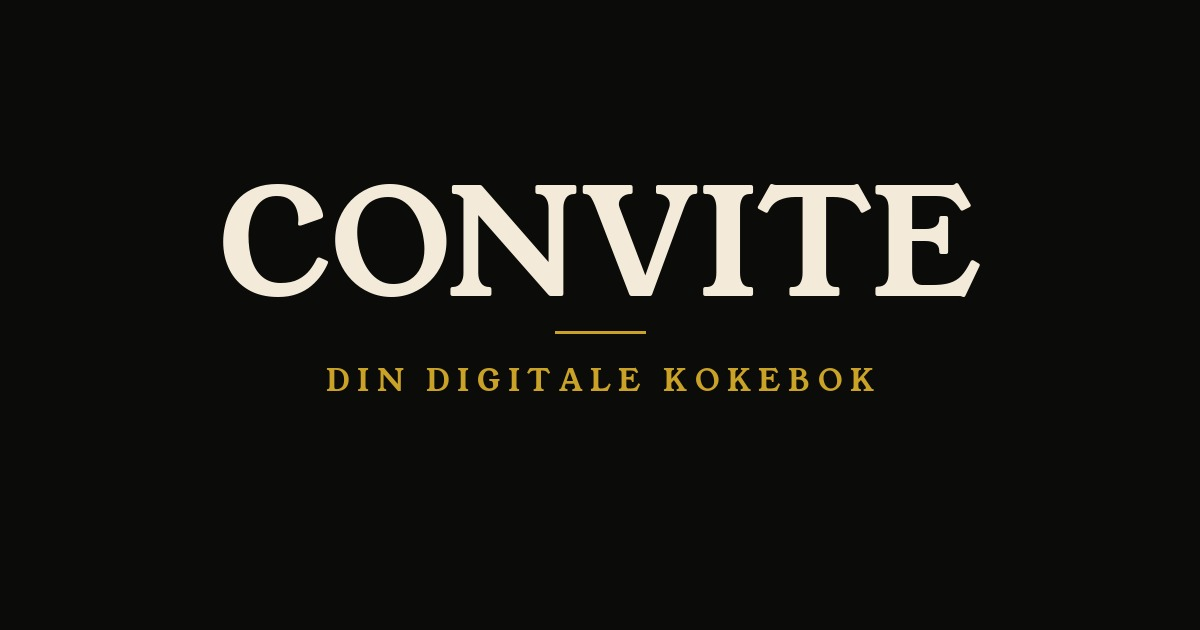
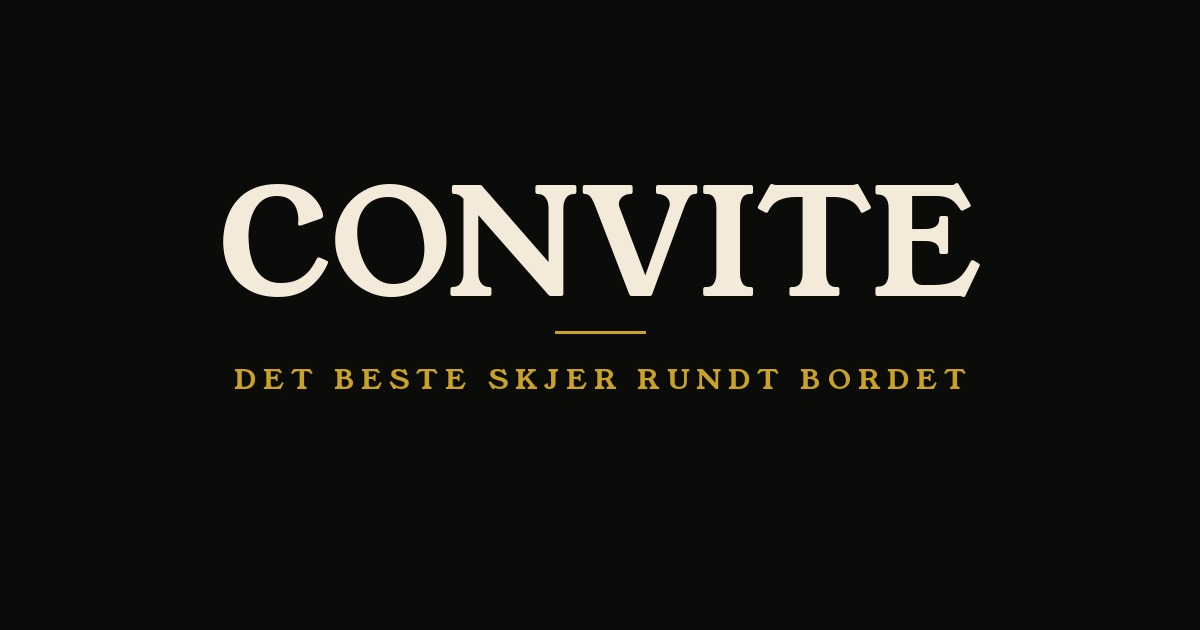
Bruk 'Det beste skjer rundt bordet' overalt, ikke bare i heroen
Fanetittelen (app/layout.tsx) og delingsbildet brukte fortsatt den
gamle 'Din digitale kokebok'-frasen (home.eyebrow), mens heroen og
footeren for lengst hadde byttet til 'Det beste skjer rundt bordet'
(home.subtitleRest) - se eksisterende kommentar i Footer.tsx. Nå
stemmer fanetittel og delingsbilde med det man faktisk ser på siden.

Changed region(s): [[0.185, 0.573, 0.8017, 0.6333]]

diff --git a/app/layout.tsx b/app/layout.tsx
@@ -26,9 +26,12 @@ const inter = Inter({
 
 export async function generateMetadata(): Promise<Metadata> {
   const lang = await getLang();
-  // "Cook well. Eat better." er ikke lenger i bruk noe sted på siden – bruker
-  // samme "Din digitale kokebok"-frasen som forsiden/footeren i tittelen her.
-  const tagline = t(lang, "home.eyebrow");
+  // "Cook well. Eat better." (config.tagline) og "Din digitale kokebok"
+  // (home.eyebrow) er ikke lenger i bruk noe sted på siden – bruker samme
+  // "Det beste skjer rundt bordet"-frasen (home.subtitleRest) som
+  // heroen/footeren allerede byttet til, for at fanetittelen skal stemme
+  // med det man faktisk ser på siden.
+  const tagline = t(lang, "home.subtitleRest");
   const description = lang === "en" ? siteConfig.descriptionEn : siteConfig.description;
 
   return {
